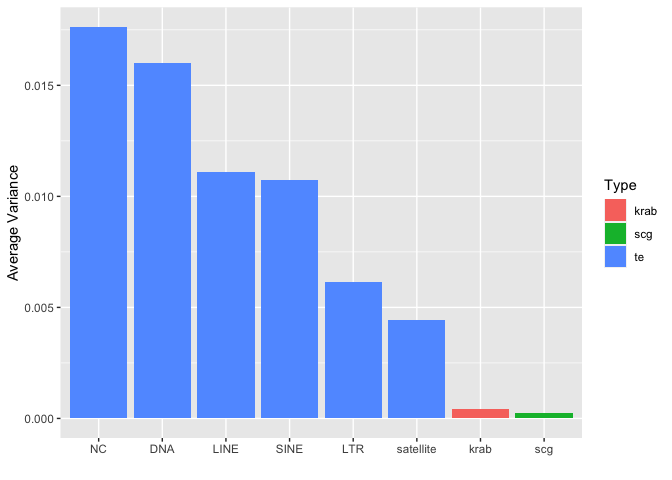
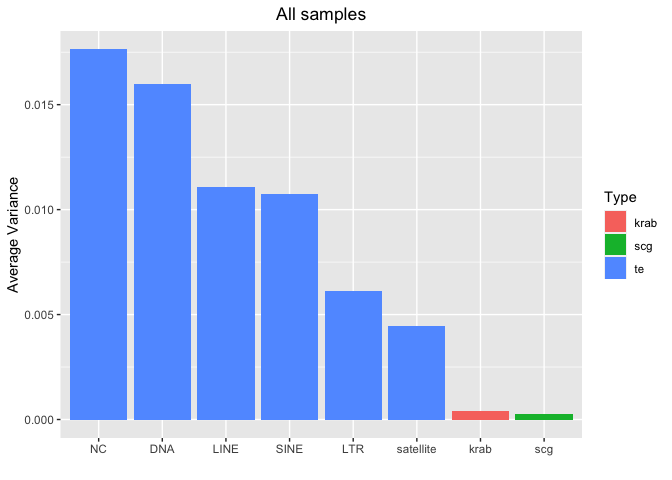
Updated all-variance script
-

diff --git a/documentation/variance/01.all-variance.md b/documentation/variance/01.all-variance.md
@@ -101,6 +101,29 @@ data_distance <- inner_join(distances, HGDP_final, by = "pop")
 
 ## Read the variance matrix
 
+The variance matrix is created starting from the overall matrix (sync
+file) containing all the counts of each base for each position of each
+sequence in the reference library. The python3 script
+*variance_matrix_v1.py* takes as input the overall matrix and gives as
+output the matrix read below.
+
+For each row of the matrix it:
+
+- Identify the major allele across all the samples in the matrix
+- Calculate the major allele frequency in all the samples
+- Calculate the variance of the major allele across all the samples in
+  the matrix
+
+The output has 6 columns:
+
+- **familyname** = the sequence name
+- **type** = the sequence type (scg, scgx, krab, te)
+- **position** = position in the sequence
+- **main** = the base of the major allele
+- **avg** = the average frequency of the major allele across the samples
+- **var** = the variance of the major allele frequency across the
+  samples
+
 ``` r
 (matrix <- read_tsv("/Volumes/Temp1/rpianezza/PCA-SNPs-all-analysis/matrixes/filter_variance/variance_matrix_final"))
 ```
@@ -130,27 +153,32 @@ data_distance <- inner_join(distances, HGDP_final, by = "pop")
     ## # … with 3,331,460 more rows
 
 ``` r
-(avg_var <- matrix %>% group_by(familyname, type) %>% dplyr::summarise(avg_var=mean(var)) %>% arrange(desc(avg_var)))
+matrix_nogc <- read_tsv("/Volumes/Temp1/rpianezza/variance/matrixes/nogcbias-variance.matrix.tsv")
+```
+
+    ## Rows: 3331470 Columns: 6
+    ## ── Column specification ────────────────────────────────────────────────────────
+    ## Delimiter: "\t"
+    ## chr (3): familyname, type, main
+    ## dbl (3): position, avg, var
+    ## 
+    ## ℹ Use `spec()` to retrieve the full column specification for this data.
+    ## ℹ Specify the column types or set `show_col_types = FALSE` to quiet this message.
+
+## Analysis of variance
+
+I did the analysis first for all the samples, then subsetting only the
+non GC-biased samples to check if the GC-bias has a real impact on the
+SNPs calling.
+
+``` r
+# All samples
+
+avg_var <- matrix %>% group_by(familyname, type) %>% dplyr::summarise(avg_var=mean(var)) %>% arrange(desc(avg_var))
 ```
 
     ## `summarise()` has grouped output by 'familyname'. You can override using the
     ## `.groups` argument.
-
-    ## # A tibble: 1,703 × 3
-    ## # Groups:   familyname [1,703]
-    ##    familyname  type  avg_var
-    ##    <chr>       <chr>   <dbl>
-    ##  1 UCON105     te     0.0754
-    ##  2 MER93       te     0.0748
-    ##  3 MER5C1      te     0.0737
-    ##  4 Eutr12      te     0.0722
-    ##  5 UCON43      te     0.0690
-    ##  6 TIGGER5_B   te     0.0682
-    ##  7 X1_DNA      te     0.0681
-    ##  8 MER80       te     0.0674
-    ##  9 UCON64      te     0.0627
-    ## 10 L1ME3E_3end te     0.0610
-    ## # … with 1,693 more rows
 
 ``` r
 (avg_var_type <- avg_var %>% group_by(type) %>% dplyr::summarise(avg_var=mean(avg_var)))
@@ -163,6 +191,22 @@ data_distance <- inner_join(distances, HGDP_final, by = "pop")
     ## 2 scg   0.000261
     ## 3 scgx  0.000221
     ## 4 te    0.00974
+
+``` r
+# No-GC biased samples
+
+avg_var_nogc <- matrix_nogc %>% group_by(familyname, type) %>% dplyr::summarise(avg_var=mean(var)) %>% arrange(desc(avg_var))
+```
+
+    ## `summarise()` has grouped output by 'familyname'. You can override using the
+    ## `.groups` argument.
+
+``` r
+avg_var_nogc_type <- avg_var_nogc %>% group_by(type) %>% dplyr::summarise(avg_var=mean(avg_var))
+```
+
+The average variance of TE is much higher then krab, scg and scgx. This
+is expected due to the higher TE copynumber.
 
 ``` r
 DNA_names <- c("Crypton", "hAT", "Helitron", "Kolobok", "Mariner/Tc1", "Merlin", "MuDR", "piggyBac", "DNA transposon")
@@ -182,12 +226,33 @@ classification <- HGDP %>%
     TRUE ~ "NC"))
 type <- c("te", "te", "te", "te", "te", "te", "krab", "scg")
 
-(avg_var_class <- avg_var %>% inner_join(classification, by="familyname") %>% group_by(class) %>% mutate(class = case_when(type=="krab" ~ "krab", type %in% c("scg", "scgx") ~ "scg", TRUE ~ class)) %>% dplyr::summarise(avg_var=mean(avg_var)) %>% arrange(desc(avg_var)) %>% mutate(type=type) %>% mutate(class = reorder(class, avg_var, FUN = desc)) %>% ggplot(aes(class, avg_var, fill=type), fill=type) + geom_bar(stat="identity") + labs(x = "", y = "Average Variance", fill = "Type"))
+# All samples
+(avg_var_class <- avg_var %>% inner_join(classification, by="familyname") %>% group_by(class) %>% mutate(class = case_when(type=="krab" ~ "krab", type %in% c("scg", "scgx") ~ "scg", TRUE ~ class)) %>% dplyr::summarise(avg_var=mean(avg_var)) %>% arrange(desc(avg_var)) %>% mutate(type=type) %>% mutate(class = reorder(class, avg_var, FUN = desc)) %>% ggplot(aes(class, avg_var, fill=type), fill=type) + geom_bar(stat="identity") + labs(x = "", y = "Average Variance", fill = "Type") + ggtitle("All samples") + theme(plot.title = element_text(hjust = 0.5)))
 ```
 
 ![](01.all-variance_files/figure-gfm/unnamed-chunk-6-1.png)<!-- -->
 
 ``` r
+# No GC-biased samples
+(avg_var_nogc_class <- avg_var_nogc %>% inner_join(classification, by="familyname") %>% group_by(class) %>% mutate(class = case_when(type=="krab" ~ "krab", type %in% c("scg", "scgx") ~ "scg", TRUE ~ class)) %>% dplyr::summarise(avg_var=mean(avg_var)) %>% arrange(desc(avg_var)) %>% mutate(type=type) %>% mutate(class = reorder(class, avg_var, FUN = desc)) %>% ggplot(aes(class, avg_var, fill=type), fill=type) + geom_bar(stat="identity") + labs(x = "", y = "Average Variance", fill = "Type") + ggtitle("No GC-biased samples") + theme(plot.title = element_text(hjust = 0.5)))
+```
+
+![](01.all-variance_files/figure-gfm/unnamed-chunk-6-2.png)<!-- -->
+
+Among the different families of TE, we see:
+
+- **NC** (non-classified): are very old TE for which was not possible a
+  classification. High variance is expected due to long time to mutate.
+- **DNA** TE: old and inactive, high variance expected
+- **LINE** and **SINE**: the higher copynumber TEs (ALU, ALU variants,
+  L1s). Slight difference if not considering GC-biased sample.
+- **LTR**: low variance (weird?)
+- **satellite**: more impacted by GC-bias, as expected. Prone to errors
+  due to PCR polymerase slippage.
+
+``` r
+# All samples
+
 avg_var_shared_with <- avg_var %>% filter(type=="te") %>% inner_join(classification, by="familyname") %>% group_by(familyname, shared_with, class) %>% dplyr::summarise(avg_var=mean(avg_var)) %>% arrange(desc(avg_var)) %>% ungroup() %>% 
   mutate(TMRCA = case_when(
     shared_with == "Vertebrata" ~ "550",
@@ -210,7 +275,7 @@ avg_var_shared_with <- avg_var %>% filter(type=="te") %>% inner_join(classificat
     ## `.groups` argument.
 
 ``` r
-avg_var_shared_with %>% ggplot(aes(TMRCA, avg_var, color=class)) + geom_point() + geom_smooth(method = "lm", se = FALSE, alpha = 0.5, size = 0.5) + labs(x = "TMRCA (My)", y = "Average Variance", fill = "Class")
+avg_var_shared_with %>% ggplot(aes(TMRCA, avg_var, color=class)) + geom_point() + geom_smooth(method = "lm", se = FALSE, alpha = 0.5, size = 0.5) + labs(x = "TMRCA (My)", y = "Average Variance", fill = "Class") + ggtitle("All samples") + theme(plot.title = element_text(hjust = 0.5))
 ```
 
     ## Warning: Using `size` aesthetic for lines was deprecated in ggplot2 3.4.0.
@@ -221,11 +286,68 @@ avg_var_shared_with %>% ggplot(aes(TMRCA, avg_var, color=class)) + geom_point() 
 ![](01.all-variance_files/figure-gfm/unnamed-chunk-7-1.png)<!-- -->
 
 ``` r
-#avg_var_shared_with %>% ggplot(aes(TMRCA, avg_var, color=class)) + geom_point() + labs(x = "TMRCA (My)", y = "Average Variance", fill = "Class")
+# No GC-biased samples
+
+avg_var_nogc_shared_with <- avg_var_nogc %>% filter(type=="te") %>% inner_join(classification, by="familyname") %>% group_by(familyname, shared_with, class) %>% dplyr::summarise(avg_var=mean(avg_var)) %>% arrange(desc(avg_var)) %>% ungroup() %>% 
+  mutate(TMRCA = case_when(
+    shared_with == "Vertebrata" ~ "550",
+    shared_with == "Mammalia" ~ "200",
+    shared_with == "Theria" ~ "175",
+    shared_with == "Eutheria" ~ "105",
+    shared_with == "Primates" ~ "65",
+    shared_with == "Hominidae" ~ "6.5",
+    shared_with == "Homo sapiens" ~ "0.2",
+    )) %>% type_convert() %>% group_by(class, TMRCA) %>% summarise(avg_var=mean(avg_var)) %>% filter(TMRCA<500)
 ```
 
+    ## `summarise()` has grouped output by 'familyname', 'shared_with'. You can
+    ## override using the `.groups` argument.
+    ## ── Column specification
+    ## ──────────────────────────────────────────────────────── cols( familyname =
+    ## col_character(), shared_with = col_character(), class = col_character(), TMRCA
+    ## = col_double() )
+    ## `summarise()` has grouped output by 'class'. You can override using the
+    ## `.groups` argument.
+
 ``` r
-(scg <- matrix %>% filter(type %in% c("scg","scgx")) %>% arrange(desc(var)))
+avg_var_nogc_shared_with %>% ggplot(aes(TMRCA, avg_var, color=class)) + geom_point() + geom_smooth(method = "lm", se = FALSE, alpha = 0.5, size = 0.5) + labs(x = "TMRCA (My)", y = "Average Variance", fill = "Class") + ggtitle("No GC-biased samples") + theme(plot.title = element_text(hjust = 0.5))
+```
+
+    ## `geom_smooth()` using formula = 'y ~ x'
+
+![](01.all-variance_files/figure-gfm/unnamed-chunk-7-2.png)<!-- -->
+
+From RepBase, we know the taxonomic group in which every TE family is
+shared. I converted this into TMRCA and looked for a correlation between
+the average variance of the sequence across the samples and the TMRCA.
+This is expected due to higher time to mutate. Wee see that there is a
+positive correlation for all the TE families.
+
+## SCGs variance
+
+``` r
+(scg <- matrix %>% filter(type %in% c("scg","scgx")) %>% group_by(familyname) %>% dplyr::summarise(avg_var = mean(var)) %>% arrange(desc(avg_var)))
+```
+
+    ## # A tibble: 507 × 2
+    ##    familyname                avg_var
+    ##    <chr>                       <dbl>
+    ##  1 chr16:765731-768798      0.0159  
+    ##  2 chr7:55342315-55344958   0.00254 
+    ##  3 chr1:960583-965719       0.00247 
+    ##  4 chr16:792523-795720      0.00182 
+    ##  5 chr6:31114824-31117299   0.00139 
+    ##  6 chr16:722624-724635      0.00133 
+    ##  7 chr16:89883393-89886130  0.00120 
+    ##  8 chr9:137452464-137454492 0.00109 
+    ##  9 chr16:88742820-88745464  0.000994
+    ## 10 chr19:2338759-2341187    0.000967
+    ## # … with 497 more rows
+
+``` r
+scg_nogc <- matrix_nogc %>% filter(type %in% c("scg","scgx")) %>% group_by(familyname) %>% dplyr::summarise(avg_var = mean(var)) %>% arrange(desc(avg_var))
+
+(scg_SNPs <- matrix %>% filter(type %in% c("scg","scgx")) %>% arrange(desc(var)))
 ```
 
     ## # A tibble: 1,673,584 × 6
@@ -242,3 +364,84 @@ avg_var_shared_with %>% ggplot(aes(TMRCA, avg_var, color=class)) + geom_point() 
     ##  9 chr16:765731-768798       scg       1926 G     0.462 0.249
     ## 10 chr16:765731-768798       scg       1993 A     0.488 0.249
     ## # … with 1,673,574 more rows
+
+``` r
+(scg_nogc_SNPs <- matrix_nogc %>% filter(type %in% c("scg","scgx")) %>% arrange(desc(var)))
+```
+
+    ## # A tibble: 1,673,584 × 6
+    ##    familyname                type  position main    avg   var
+    ##    <chr>                     <chr>    <dbl> <chr> <dbl> <dbl>
+    ##  1 chr16:765731-768798       scg       1983 G     0.501 0.250
+    ##  2 chr10:133272737-133276856 scg          2 C     0.508 0.250
+    ##  3 chr19:17402938-17405630   scg          1 T     0.484 0.250
+    ##  4 chr16:765731-768798       scg       1981 G     0.498 0.25 
+    ##  5 chr16:765731-768798       scg       1924 G     0.475 0.250
+    ##  6 chr10:133272737-133276856 scg          1 A     0.472 0.250
+    ##  7 chr16:765731-768798       scg       1976 G     0.467 0.249
+    ##  8 chr16:765731-768798       scg       1978 G     0.465 0.249
+    ##  9 chr16:765731-768798       scg       1926 G     0.461 0.249
+    ## 10 chr16:765731-768798       scg       1977 G     0.459 0.249
+    ## # … with 1,673,574 more rows
+
+How many SNPs are there in every gene? SNPs selected with a var
+threshold of 0.1247 \| 0.1219 that comprehend the most variable 1000
+SNPs across all samples \| no gc-biased samples.
+
+``` r
+(snps <- scg_SNPs %>% filter(var > 0.1247) %>% dplyr::summarise(count = n()))
+```
+
+    ## # A tibble: 1 × 1
+    ##   count
+    ##   <int>
+    ## 1   998
+
+``` r
+(snps_per_gene <- scg_SNPs %>% filter(var > 0.1247) %>% group_by(familyname) %>% dplyr::summarise(count = n()) %>% arrange(desc(count)))
+```
+
+    ## # A tibble: 299 × 2
+    ##    familyname                count
+    ##    <chr>                     <int>
+    ##  1 chr16:765731-768798         185
+    ##  2 chr1:960583-965719           49
+    ##  3 chr22:19971227-19987093      17
+    ##  4 chr12:53962307-53974956      15
+    ##  5 chr16:88742820-88745464      15
+    ##  6 chr16:722624-724635          14
+    ##  7 chr14:105475310-105478776    12
+    ##  8 chr10:120899837-120903175    11
+    ##  9 chr6:93409653-93419547       11
+    ## 10 chr3:49805208-49813953        8
+    ## # … with 289 more rows
+
+``` r
+(snps_nogc <- scg_nogc_SNPs %>% filter(var > 0.1219) %>% dplyr::summarise(count = n()))
+```
+
+    ## # A tibble: 1 × 1
+    ##   count
+    ##   <int>
+    ## 1   998
+
+``` r
+(snps_per_gene_nogc <- scg_nogc_SNPs %>% filter(var > 0.1219) %>% group_by(familyname) %>% dplyr::summarise(count = n()) %>% arrange(desc(count)))
+```
+
+    ## # A tibble: 290 × 2
+    ##    familyname                count
+    ##    <chr>                     <int>
+    ##  1 chr16:765731-768798         184
+    ##  2 chr1:960583-965719           40
+    ##  3 chr12:53962307-53974956      15
+    ##  4 chr16:88742820-88745464      15
+    ##  5 chr16:722624-724635          14
+    ##  6 chr22:19971227-19987093      14
+    ##  7 chr14:105475310-105478776    12
+    ##  8 chr10:120899837-120903175    11
+    ##  9 chr6:93409653-93419547       11
+    ## 10 chr11:2140500-2148339         9
+    ## # … with 280 more rows
+
+min var = 0.08 -\> 2k SNPs min var = 0.02 -\> 4k SNPs
